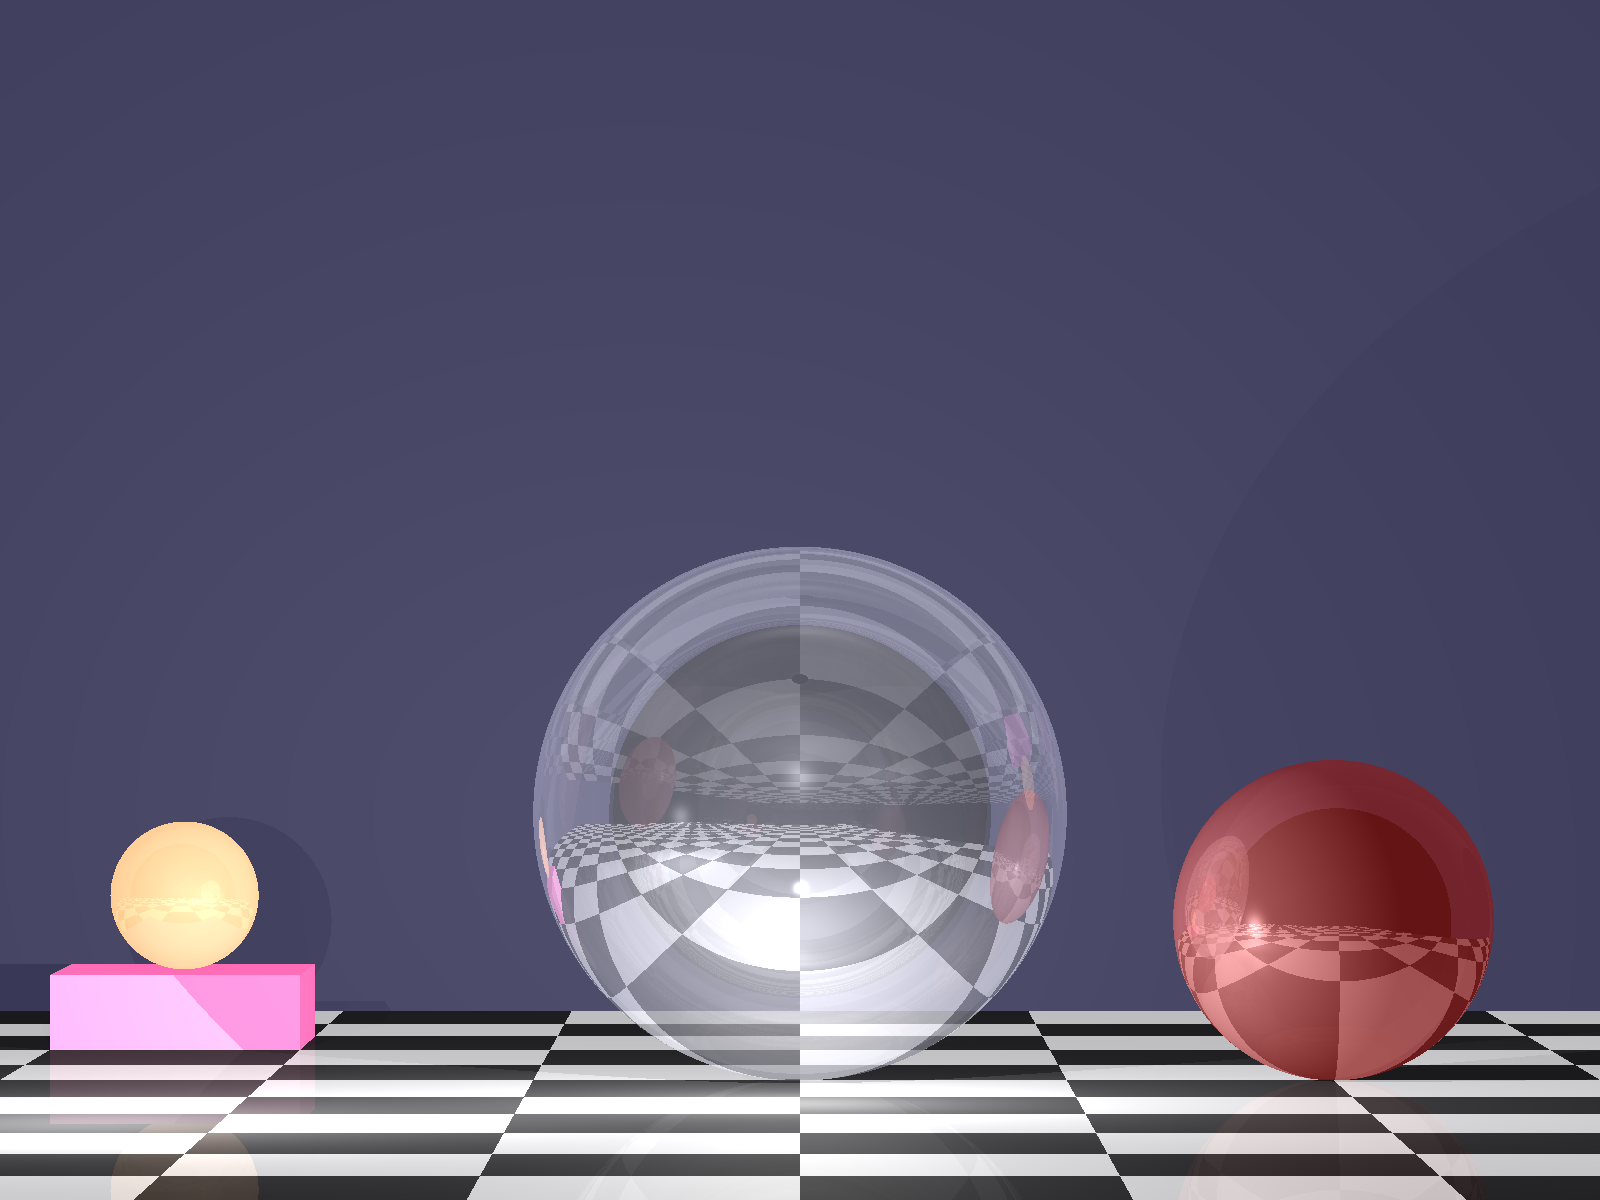
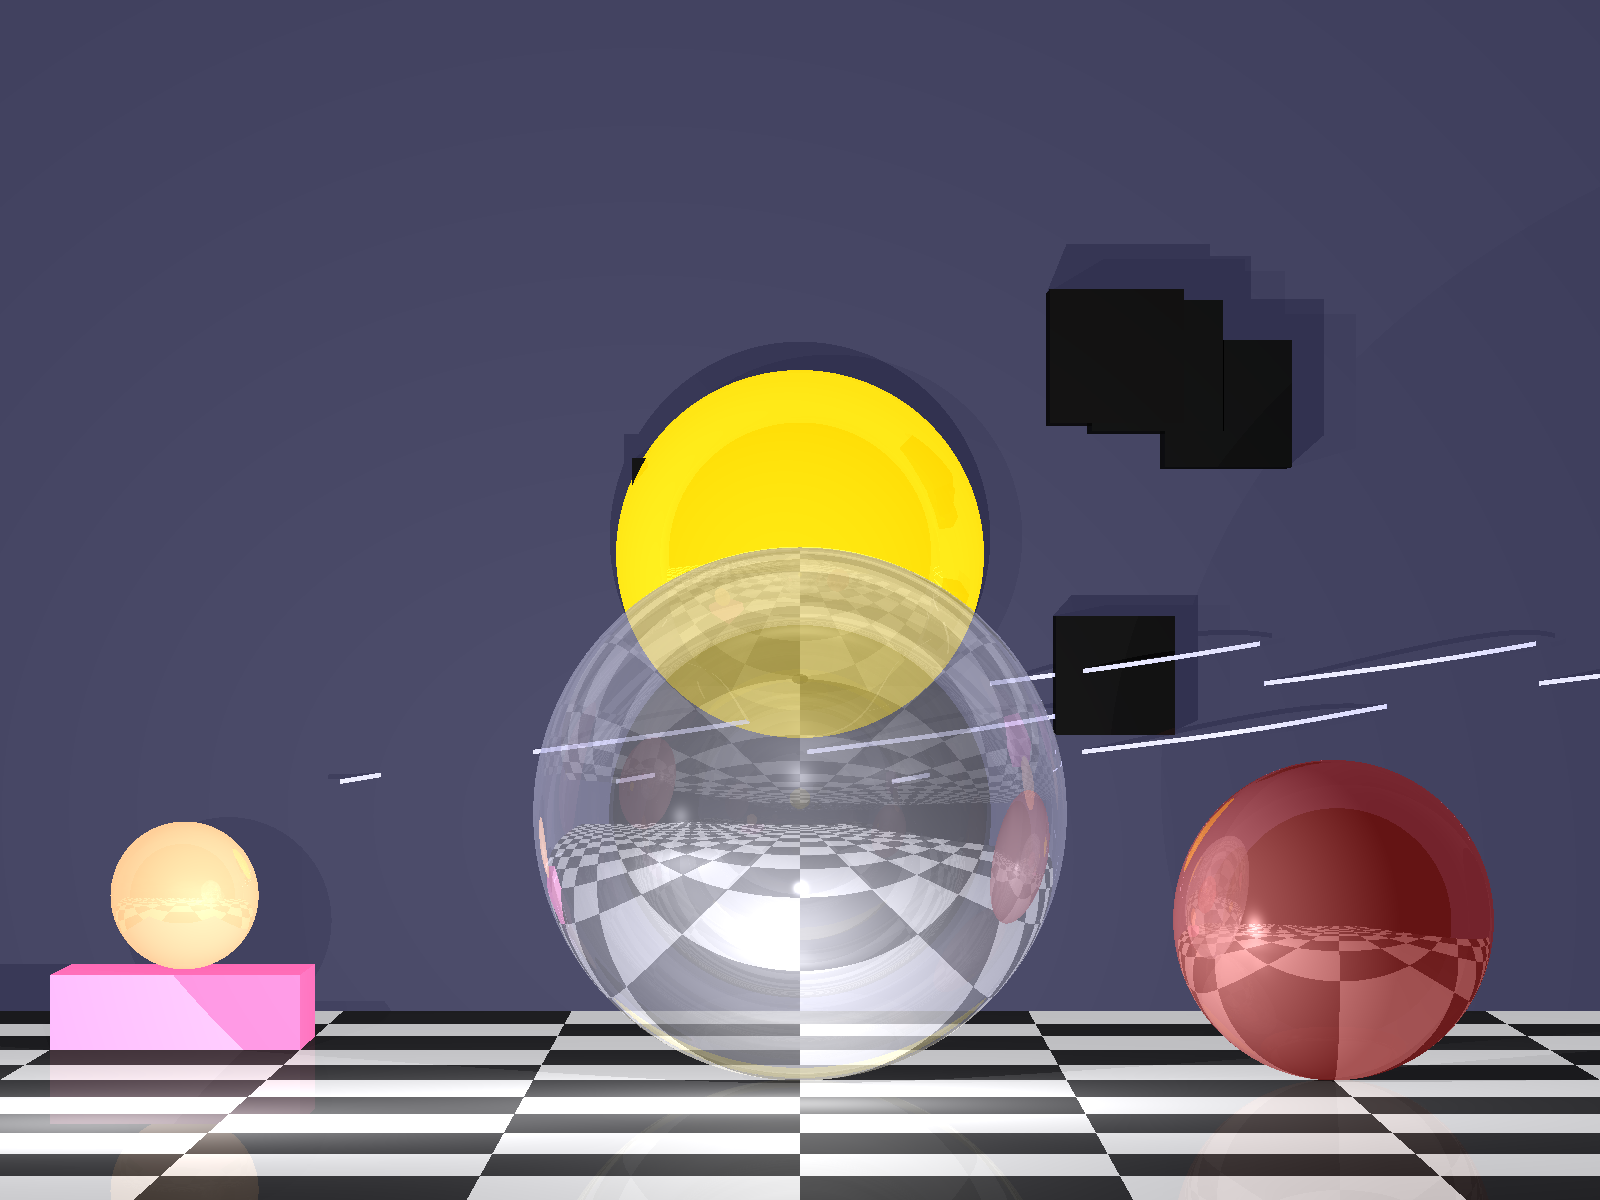
Advancing at the image

diff --git a/unittests/renderer/ProjectImage.java b/unittests/renderer/ProjectImage.java
@@ -9,6 +9,7 @@ import test.*;
 import scene.Scene;
 
 
+import java.util.ArrayList;
 import java.util.List;
 
 import static java.awt.Color.*;
@@ -201,7 +202,7 @@ public class ProjectImage {
         // Create background wall
         Geometry backgroundWall = new Plane(new Point(0, 250, 0), new Vector(0, -1, 0))
                 .setEmission(new Color(50, 50, 80))
-                .setMaterial(new Material().setKd(0.8).setKs(0.2).setShininess(30));  // Matte finish
+                .setMaterial(new Material().setKd(0.8).setKs(0.2).setShininess(30));
 
         // Define the base points for the cube
         Point p1 = new Point(-150, 150, 0);
@@ -211,19 +212,16 @@ public class ProjectImage {
 
         // Set material properties to match a matte, bubblegum-like appearance
         Material bubblegumMaterial = new Material()
-                .setKd(0.9).setKs(0.1).setShininess(10); // High diffuse, low specular, low shininess
+                .setKd(0.9).setKs(0.1).setShininess(10);
 
         // Set a solid pink color for the bubblegum look
         Color bubblegumColor = new Color(255, 105, 180);
 
         // Create the cube faces and apply the material and color
         Geometry[] cubeFaces = {
-                // Bottom face
                 new Polygon(p1, p2, p4, p3),
-                // Top face
                 new Polygon(p1.add(new Vector(0, 0, 15)), p2.add(new Vector(0, 0, 15)),
                         p4.add(new Vector(0, 0, 15)), p3.add(new Vector(0, 0, 15))),
-                // Side faces
                 new Polygon(p1, p2, p2.add(new Vector(0, 0, 15)), p1.add(new Vector(0, 0, 15))),
                 new Polygon(p2, p4, p4.add(new Vector(0, 0, 15)), p2.add(new Vector(0, 0, 15))),
                 new Polygon(p4, p3, p3.add(new Vector(0, 0, 15)), p4.add(new Vector(0, 0, 15))),
@@ -234,24 +232,37 @@ public class ProjectImage {
         for (Geometry face : cubeFaces) {
             face.setEmission(bubblegumColor).setMaterial(bubblegumMaterial);
         }
+
         Geometry sphereOnCube = new Sphere(15, new Point(-125, 125, 30))
-                .setEmission(new Color(231, 158, 110))  // Bubblegum pink color
+                .setEmission(new Color(231, 158, 110))
                 .setMaterial(new Material()
-                        .setKd(0.7)       // High diffuse for a matte look
-                        .setKs(0.3)       // Low specular for a slight shine
-                        .setShininess(10) // Low shininess for a soft highlight
-                        .setKT(0.2)       // Slight transparency for a gummy look
-                        .setKR(0.1));     // Minimal reflection
+                        .setKd(0.7).setKs(0.3).setShininess(10)
+                        .setKT(0.2).setKR(0.1));
+
+        // Add decorative elements to the background wall
+        Geometries wallDecorations = new Geometries();
+
+        // Create cubes at specific locations
+        Color cubeColor = new Color(0.5, 0.5, 1); // Light blue color
+        Material cubeMaterial = new Material().setKd(0.7).setKs(0.3).setShininess(100).setKR(0.1);
+        wallDecorations.add(createCube(new Point(-100, 245, 100), 20, cubeColor, cubeMaterial));
+        wallDecorations.add(createCube(new Point(0, 245, 150), 30, cubeColor, cubeMaterial));
+        wallDecorations.add(createCube(new Point(100, 245, 125), 25, cubeColor, cubeMaterial));
+
+        // Wave-like pattern
+        for (int i = 0; i < 3; i++) {
+            wallDecorations.add(createWave(i * 60 - 100, 240, 60, 200, 30, 20,
+                    new Color(200, 200, 255), new Material().setKd(0.8).setKs(0.2).setShininess(30).setKT(0.3)));
+        }
+
         // Add all geometries to the scene
-        scene.geometries.add(crystalSphere, checkerboard, reflectiveSphere, backgroundWall, sphereOnCube);
+        scene.geometries.add(crystalSphere, checkerboard, reflectiveSphere, backgroundWall, sphereOnCube, wallDecorations);
         scene.geometries.add(cubeFaces);
         scene.geometries.makeBVH();
 
-        // Subtle fill light
+        // Lighting setup
         scene.lights.add(new PointLight(new Color(200, 200, 200), new Point(0, -70, 25))
                 .setKl(0.0002).setKq(0.00002));
-
-        // Add a soft, diffuse light to illuminate the cube
         scene.lights.add(new PointLight(new Color(255, 255, 255), new Point(-125, -125, 50))
                 .setKl(0.001).setKq(0.0002));
 
@@ -261,12 +272,66 @@ public class ProjectImage {
                 .setDirection(new Vector(0, 1, 0), new Vector(0, 0, 1))
                 .setMultithreading(9)
                 .setSamplesPerPixel(1)
-                .setVUpSize(200, 150)  // Changed to 200x150 for a 4:3 aspect ratio
+                .setVUpSize(200, 150)
                 .setVpDistance(1000);
 
-        camera.setImageWriter(new ImageWriter("1.8 Bubblegum Cube NaturalAxisCrystalScene", 1600, 1200))
+        camera.setImageWriter(new ImageWriter("2.0.2 Bubblegum Cube NaturalAxisCrystalScene", 1600, 1200))
                 .build()
                 .renderImage()
                 .writeToImage();
+    }
+
+    private Geometries createCube(Point center, double size, Color color, Material material) {
+        double halfSize = size / 2;
+        Geometries cube = new Geometries();
+        Polygon[] faces = {
+                new Polygon(center.add(new Vector(-halfSize, -halfSize, -halfSize)), center.add(new Vector(halfSize, -halfSize, -halfSize)),
+                        center.add(new Vector(halfSize, halfSize, -halfSize)), center.add(new Vector(-halfSize, halfSize, -halfSize))),
+                new Polygon(center.add(new Vector(-halfSize, -halfSize, halfSize)), center.add(new Vector(halfSize, -halfSize, halfSize)),
+                        center.add(new Vector(halfSize, halfSize, halfSize)), center.add(new Vector(-halfSize, halfSize, halfSize))),
+                new Polygon(center.add(new Vector(-halfSize, -halfSize, -halfSize)), center.add(new Vector(-halfSize, -halfSize, halfSize)),
+                        center.add(new Vector(-halfSize, halfSize, halfSize)), center.add(new Vector(-halfSize, halfSize, -halfSize))),
+                new Polygon(center.add(new Vector(halfSize, -halfSize, -halfSize)), center.add(new Vector(halfSize, -halfSize, halfSize)),
+                        center.add(new Vector(halfSize, halfSize, halfSize)), center.add(new Vector(halfSize, halfSize, -halfSize))),
+                new Polygon(center.add(new Vector(-halfSize, -halfSize, -halfSize)), center.add(new Vector(halfSize, -halfSize, -halfSize)),
+                        center.add(new Vector(halfSize, -halfSize, halfSize)), center.add(new Vector(-halfSize, -halfSize, halfSize))),
+                new Polygon(center.add(new Vector(-halfSize, halfSize, -halfSize)), center.add(new Vector(halfSize, halfSize, -halfSize)),
+                        center.add(new Vector(halfSize, halfSize, halfSize)), center.add(new Vector(-halfSize, halfSize, halfSize)))
+        };
+
+        for (Polygon face : faces) {
+            cube.add(face.setEmission(color).setMaterial(material));
+        }
+
+        return cube;
+    }
+
+    private Geometries createWave(double x, double y, double z, double width, double height, double amplitude, Color color, Material material) {
+        Geometries wave = new Geometries();
+        int segments = 50;
+        double segmentWidth = width / segments;
+
+        for (int i = 0; i < segments; i++) {
+            double t1 = (double) i / segments;
+            double t2 = (double) (i + 1) / segments;
+
+            double x1 = x + t1 * width;
+            double x2 = x + t2 * width;
+            double y1 = y + amplitude * Math.sin(t1 * Math.PI * 4);
+            double y2 = y + amplitude * Math.sin(t2 * Math.PI * 4);
+            double z1 = z + height * t1;
+            double z2 = z + height * t2;
+
+            Geometry segment = new Polygon(
+                    new Point(x1, y1, z1),
+                    new Point(x2, y2, z2),
+                    new Point(x2, y2, z2 + 1),
+                    new Point(x1, y1, z1 + 1)
+            ).setEmission(color).setMaterial(material);
+
+            wave.add(segment);
+        }
+
+        return wave;
     }
 }
